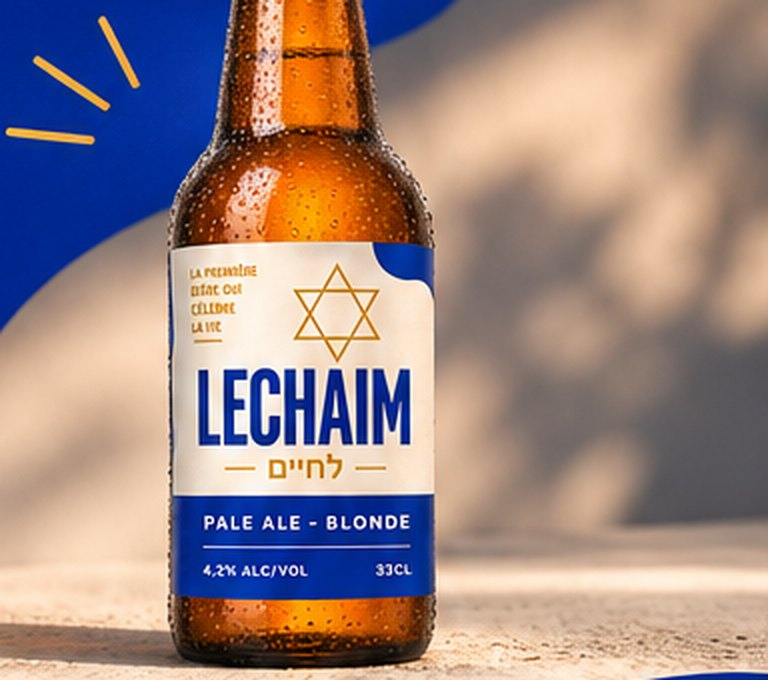
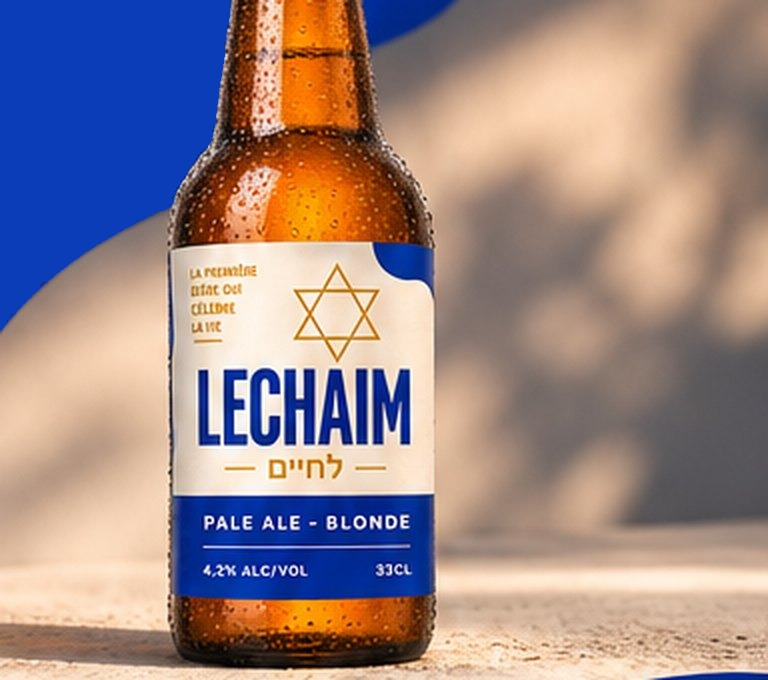
Recette visuelle : espaces, alignements et retouches d'images
- Accueil : plus de liseré crème entre l'en-tête et le héros ; rayons de l'IPA sortis de la photo
- Nos bières : fiches sur toute la largeur, caractéristiques en 3 colonnes, SafAle US-05 insécable
- Notre histoire : étoile masquée en mobile (grand vide)
- Événementiel : trait doré retiré de la photo de la tireuse, champs du formulaire alignés
- Professionnels : rayons et aplat d'un autre bleu retirés de la photo du héros
- Mentions légales : vagues retirées du bandeau, étoile hors du titre en mobile

Claude-Session: https://claude.ai/code/session_01W5G8TXcLhSBXhWvJQJdMaC

Changed region(s): [[0.0, 0.0, 0.3125, 0.4941]]

diff --git a/bieres.html b/bieres.html
@@ -15,7 +15,7 @@
   <link rel="preconnect" href="https://fonts.googleapis.com">
   <link rel="preconnect" href="https://fonts.gstatic.com" crossorigin>
   <link href="https://fonts.googleapis.com/css2?family=Bebas+Neue&family=Heebo:wght@500;700&family=Montserrat:wght@500;600;700&family=Source+Sans+3:wght@400;600&display=swap" rel="stylesheet">
-  <link rel="stylesheet" href="assets/css/style.css?v=2026112401">
+  <link rel="stylesheet" href="assets/css/style.css?v=2026112402">
 </head>
 <body>
 
@@ -181,13 +181,13 @@
               <p class="ingredients__lang">Français</p>
               <p>Eau, <strong>orge</strong>, <strong>blé</strong>, houblons, levure, CO₂.</p>
               <p class="ingredients__allergens"><strong>Allergènes :</strong> contient de l'orge et du blé (céréales contenant du gluten).</p>
-              <p class="ingredients__kosher">Ingrédients 100 % d'origine non animale, sans additif ni auxiliaire technologique d'origine animale. Levure SafAle US-05, certifiée casher par son fabricant. La bière est déjà validée par le mashguia'h de plusieurs restaurants casher.</p>
+              <p class="ingredients__kosher">Ingrédients 100 % d'origine non animale, sans additif ni auxiliaire technologique d'origine animale. Levure <span class="nowrap">SafAle US-05</span>, certifiée casher par son fabricant. La bière est déjà validée par le mashguia'h de plusieurs restaurants casher.</p>
             </div>
             <div lang="he" dir="rtl">
               <p class="ingredients__lang">עברית</p>
               <p>רכיבים — מים, <strong>שעורה</strong>, <strong>חיטה</strong>, כשות, שמרים, פחמן דו-חמצני.</p>
               <p class="ingredients__allergens"><strong>אלרגנים:</strong> מכיל שעורה וחיטה (דגנים המכילים גלוטן).</p>
-              <p class="ingredients__kosher">רכיבים 100% ממקור שאינו מן החי, ללא תוספים וללא חומרי עזר טכנולוגיים מן החי. שמרים SafAle US-05 בעלי תעודת כשרות מטעם היצרן. הבירה כבר אושרה על ידי המשגיחים של כמה מסעדות כשרות.</p>
+              <p class="ingredients__kosher">רכיבים 100% ממקור שאינו מן החי, ללא תוספים וללא חומרי עזר טכנולוגיים מן החי. שמרים <span class="nowrap" dir="ltr">SafAle US-05</span> בעלי תעודת כשרות מטעם היצרן. הבירה כבר אושרה על ידי המשגיחים של כמה מסעדות כשרות.</p>
             </div>
           </div>
         </div>
@@ -252,6 +252,6 @@
     </div>
   </footer>
 
-  <script src="assets/js/main.js?v=2026112401"></script>
+  <script src="assets/js/main.js?v=2026112402"></script>
 </body>
 </html>

diff --git a/assets/css/style.css b/assets/css/style.css
@@ -1047,3 +1047,24 @@ a.shelf__item:hover .bottle { transform: translateY(-4px); }
 .celebr__photo { -webkit-mask: none; mask: none; border-radius: 0 240px 240px 0 / 0 50% 50% 0; overflow: hidden; }
 @media (max-width: 860px) { .celebr__photo { border-radius: 0; } }
 @media (max-width: 860px) { .bhero__visual img { object-position: 75% 50%; } }
+
+/* ===== Recette visuelle du 24/11 ===== */
+/* Accueil : le héros commence directement sous l'en-tête, sans liseré crème */
+.home-hero::before { display: none; }
+/* Accueil : rayons dorés de l'IPA sortis de la photo */
+@media (min-width: 961px) { .home-beer--soon .home-beer__rays { top: 150px; right: -30px; } }
+/* Nos bières : deux fiches sur toute la largeur */
+.tiles--two { max-width: none; }
+.tiles--two .tile__visual { aspect-ratio: 16 / 10; }
+@media (max-width: 600px) { .tiles--two .tile__visual { aspect-ratio: 4 / 3.3; } }
+/* Nos bières : caractéristiques en 3 colonnes (plus de case orpheline) */
+.specs:not(.specs--two) { grid-template-columns: repeat(3, 1fr); }
+@media (max-width: 600px) { .specs:not(.specs--two) { grid-template-columns: 1fr 1fr; } }
+.nowrap { white-space: nowrap; }
+/* Notre histoire : étoile décorative masquée en mobile (elle créait un grand vide) */
+@media (max-width: 860px) { .why__star { display: none; } }
+/* Formulaires : champs alignés quand un seul porte un libellé visible */
+.mform label { align-content: end; }
+/* Mentions légales : vagues retirées du bandeau, étoile hors du titre en mobile */
+.hero__ribbons--page { display: none; }
+@media (max-width: 760px) { .page-hero__star { display: none; } }

diff --git a/evenements.html b/evenements.html
@@ -15,7 +15,7 @@
   <link rel="preconnect" href="https://fonts.googleapis.com">
   <link rel="preconnect" href="https://fonts.gstatic.com" crossorigin>
   <link href="https://fonts.googleapis.com/css2?family=Bebas+Neue&family=Heebo:wght@500;700&family=Montserrat:wght@500;600;700&family=Source+Sans+3:wght@400;600&display=swap" rel="stylesheet">
-  <link rel="stylesheet" href="assets/css/style.css?v=2026112401">
+  <link rel="stylesheet" href="assets/css/style.css?v=2026112402">
 </head>
 <body>
 
@@ -179,6 +179,6 @@
     </div>
   </footer>
 
-  <script src="assets/js/main.js?v=2026112401"></script>
+  <script src="assets/js/main.js?v=2026112402"></script>
 </body>
 </html>

diff --git a/histoire.html b/histoire.html
@@ -15,7 +15,7 @@
   <link rel="preconnect" href="https://fonts.googleapis.com">
   <link rel="preconnect" href="https://fonts.gstatic.com" crossorigin>
   <link href="https://fonts.googleapis.com/css2?family=Bebas+Neue&family=Heebo:wght@500;700&family=Montserrat:wght@500;600;700&family=Source+Sans+3:wght@400;600&display=swap" rel="stylesheet">
-  <link rel="stylesheet" href="assets/css/style.css?v=2026112401">
+  <link rel="stylesheet" href="assets/css/style.css?v=2026112402">
 </head>
 <body>
 
@@ -180,6 +180,6 @@
     </div>
   </footer>
 
-  <script src="assets/js/main.js?v=2026112401"></script>
+  <script src="assets/js/main.js?v=2026112402"></script>
 </body>
 </html>

diff --git a/index.html b/index.html
@@ -15,7 +15,7 @@
   <link rel="preconnect" href="https://fonts.googleapis.com">
   <link rel="preconnect" href="https://fonts.gstatic.com" crossorigin>
   <link href="https://fonts.googleapis.com/css2?family=Bebas+Neue&family=Heebo:wght@500;700&family=Montserrat:wght@500;600;700&family=Source+Sans+3:wght@400;600&display=swap" rel="stylesheet">
-  <link rel="stylesheet" href="assets/css/style.css?v=2026112401">
+  <link rel="stylesheet" href="assets/css/style.css?v=2026112402">
 </head>
 <body>
 
@@ -204,6 +204,6 @@
     </div>
   </footer>
 
-  <script src="assets/js/main.js?v=2026112401"></script>
+  <script src="assets/js/main.js?v=2026112402"></script>
 </body>
 </html>

diff --git a/mentions-legales.html b/mentions-legales.html
@@ -15,7 +15,7 @@
   <link rel="preconnect" href="https://fonts.googleapis.com">
   <link rel="preconnect" href="https://fonts.gstatic.com" crossorigin>
   <link href="https://fonts.googleapis.com/css2?family=Bebas+Neue&family=Heebo:wght@500;700&family=Montserrat:wght@500;600;700&family=Source+Sans+3:wght@400;600&display=swap" rel="stylesheet">
-  <link rel="stylesheet" href="assets/css/style.css?v=2026112401">
+  <link rel="stylesheet" href="assets/css/style.css?v=2026112402">
 </head>
 <body>
 
@@ -171,6 +171,6 @@
     </div>
   </footer>
 
-  <script src="assets/js/main.js?v=2026112401"></script>
+  <script src="assets/js/main.js?v=2026112402"></script>
 </body>
 </html>

diff --git a/pros.html b/pros.html
@@ -15,7 +15,7 @@
   <link rel="preconnect" href="https://fonts.googleapis.com">
   <link rel="preconnect" href="https://fonts.gstatic.com" crossorigin>
   <link href="https://fonts.googleapis.com/css2?family=Bebas+Neue&family=Heebo:wght@500;700&family=Montserrat:wght@500;600;700&family=Source+Sans+3:wght@400;600&display=swap" rel="stylesheet">
-  <link rel="stylesheet" href="assets/css/style.css?v=2026112401">
+  <link rel="stylesheet" href="assets/css/style.css?v=2026112402">
 </head>
 <body>
 
@@ -224,6 +224,6 @@
     </div>
   </footer>
 
-  <script src="assets/js/main.js?v=2026112401"></script>
+  <script src="assets/js/main.js?v=2026112402"></script>
 </body>
 </html>
